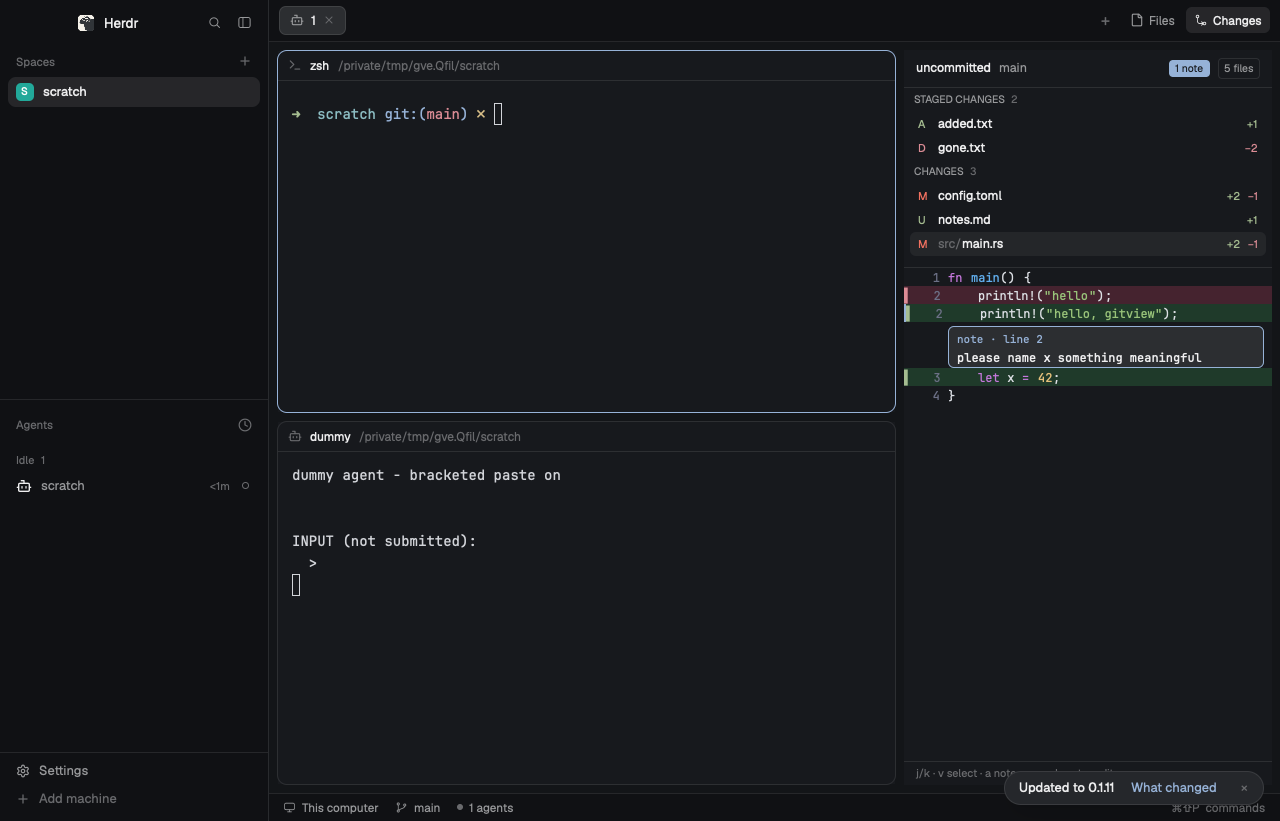
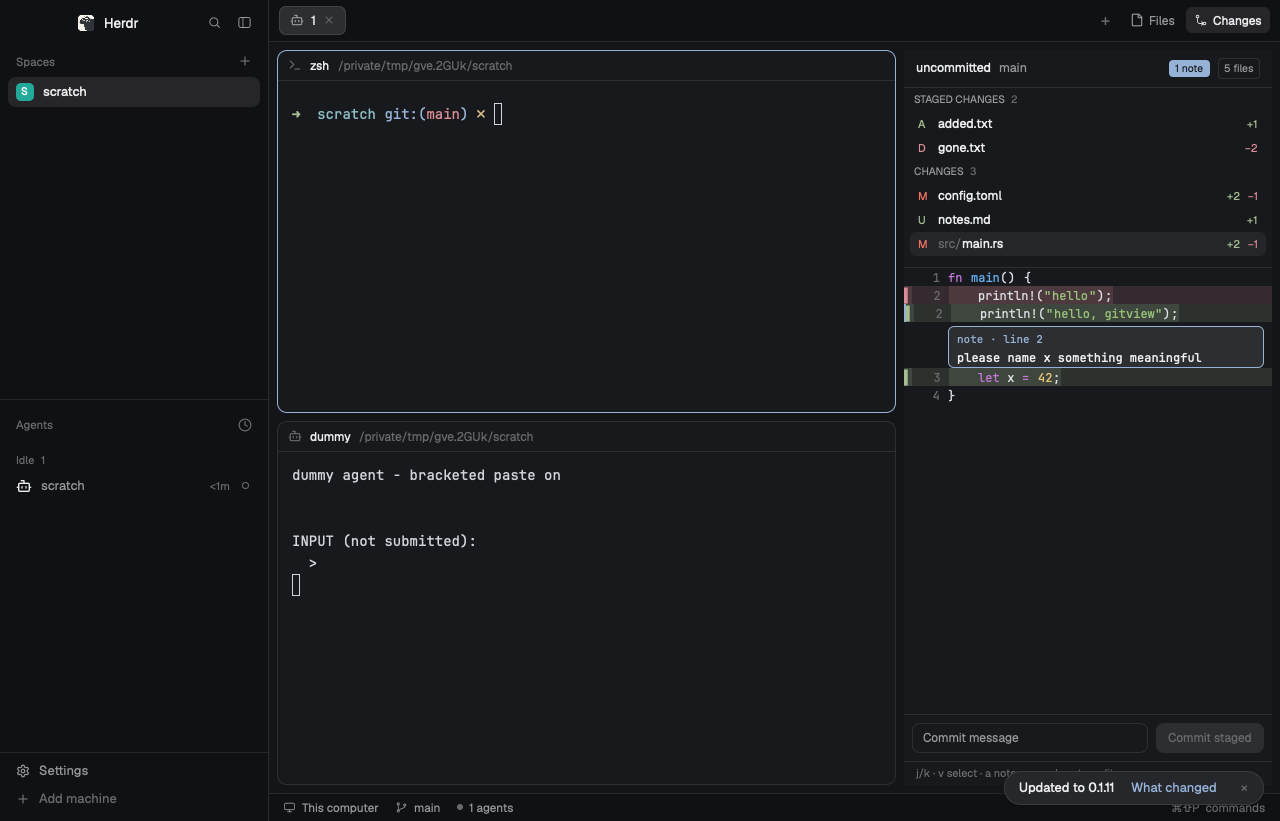
fix(app): the diff fills its column when gitview sits beside the list

diff --git a/herdr-app/mods/gitview/main.js b/herdr-app/mods/gitview/main.js
@@ -458,7 +458,7 @@ export default class GitView extends View {
       .child(chrome.header(t, this.status, this.items.filter((i) => i.file).length, this.status ? this.repoNotes().length : 0, this.loading))
       .child(
         wide
-          ? h_flex().flex_1().min_h(0).child(files.w(Math.max(260, this.width * 0.32)).h_full().border_r(1).border_color(t.border)).child(diff)
+          ? h_flex().flex_1().min_h(0).child(files.w(Math.max(260, this.width * 0.32)).h_full().border_r(1).border_color(t.border)).child(diff.h_full())
           : v_flex().flex_1().min_h(0).child(files.h(Math.min(260, Math.max(48, this.items.length * list.ROW + 12))).border_b(1).border_color(t.border)).child(diff),
       )
       .when(Boolean(this.pendingNote), (e) => e.child(chrome.composer(t, this.pendingNote, this.composer)))
